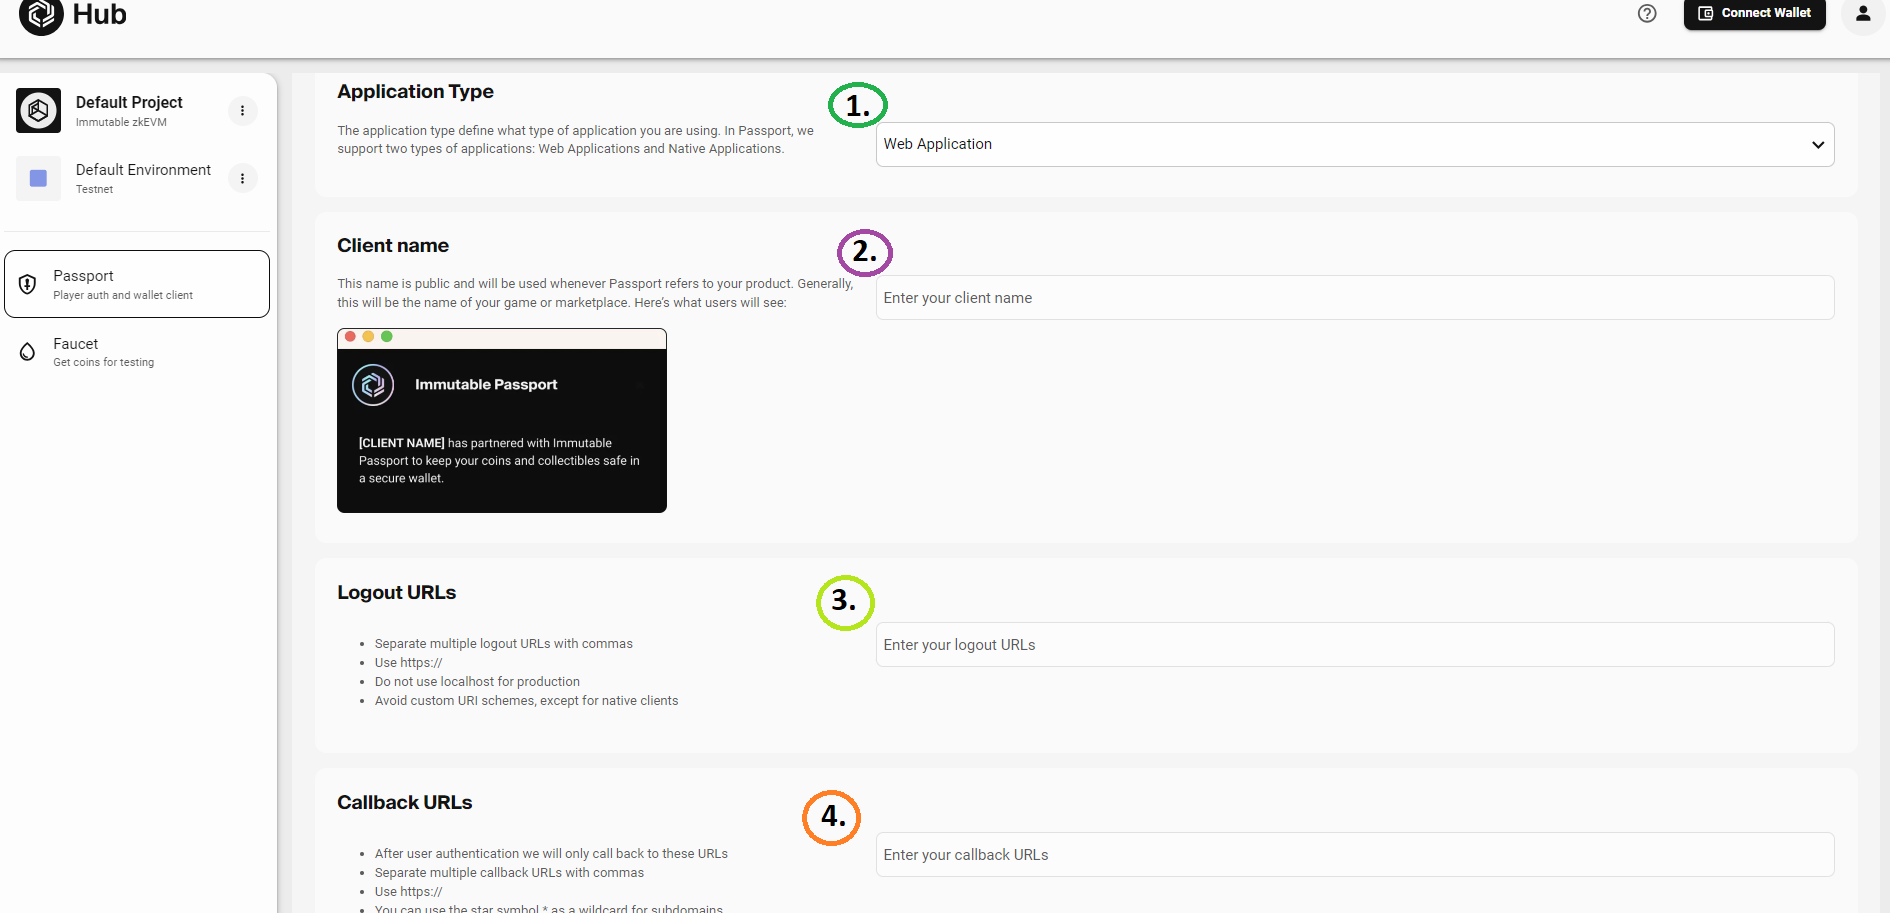
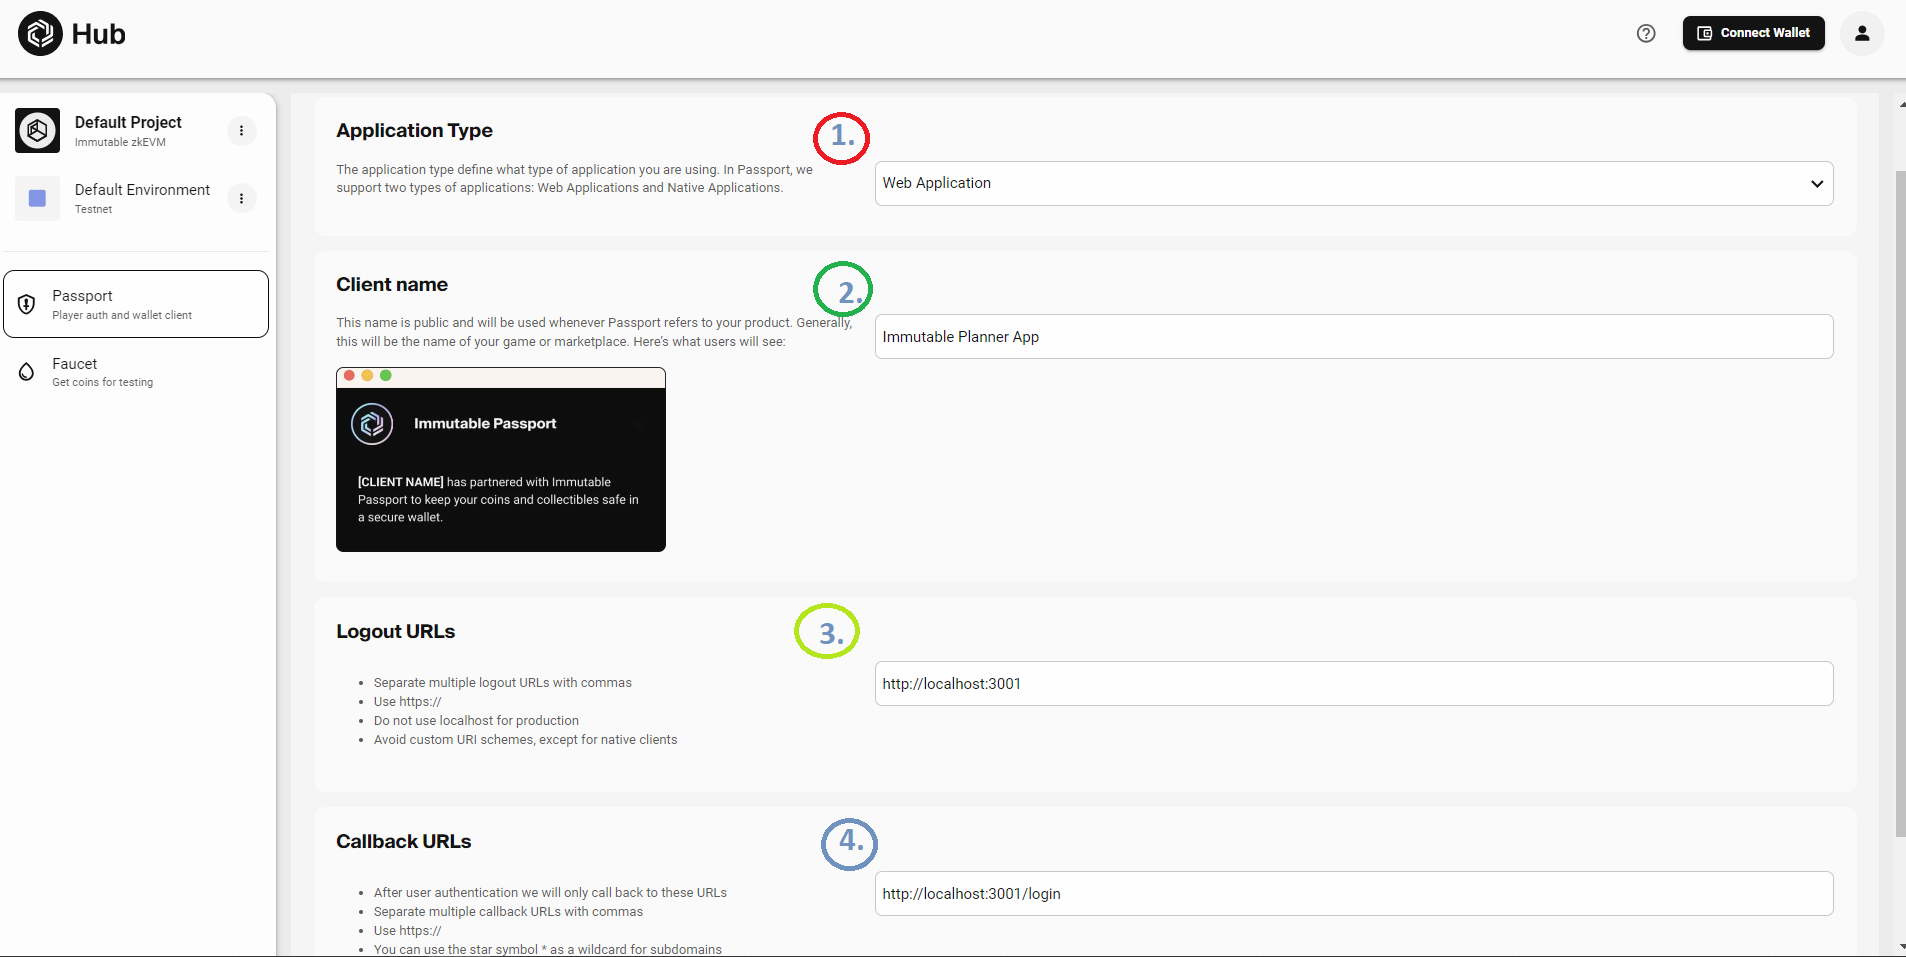
chore: clean code

diff --git a/README.md b/README.md
@@ -58,13 +58,17 @@ Follow the steps below to get the required values
 
 1. **Application** Type: Web application (remains unchanged). This represents where the application is intented to be run
 2. **Client Name**: give your application any name. This is just an identifier.
-3. **Logout URLs**: This is very **IMPORTANT**. It represents the url the user is redirected to after they logout of the application (In some applications,the default landing page). E.g <https://your-site-name.com/>. Since we would be runnig the code locally on port `3001`. Enter `http://localhost:3001` into the input box
-4. **Callback URLs**: Also very **IMPORTANT**. When you try to login, it opens a popup direct to this url. This is where the logging in takes place. E.g <https://your-site-name.com/login>.
-Since we are runnign the code on our dev server port `3001`, Enter `http://localhost:3001/login` into the input box
+3. **Logout URLs**: This is very **IMPORTANT**. It represents the url the user is redirected to after they logout of the application (In some applications,the default landing page). E.g `<https://your-site-name.com/>`.
+Since we would be runnig the code locally on port `3001`. Enter http://localhost:3001 into the input box
+4. **Callback URLs**: Also very **IMPORTANT**. When you try to login, it opens a popup direct to this url. This is where the logging in takes place. E.g `<https://your-site-name.com/login>`.
+Since we are runnign the code on our dev server port `3001`, Enter http://localhost:3001/login into the input box
+
+When you deploy, you also have to change these URLs to point to the site address
 
 Click **Create** once you have filled these values.
 
-![Alt text](image-3.png)
+
+![Alt text](image-4.png)
 
 Copy the three values and replace them in the `.env.example` file
 
